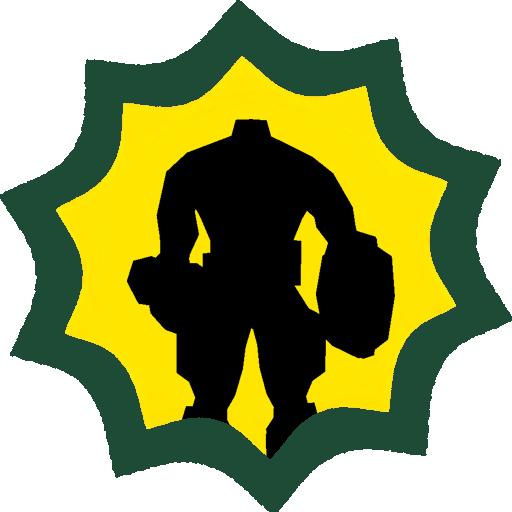
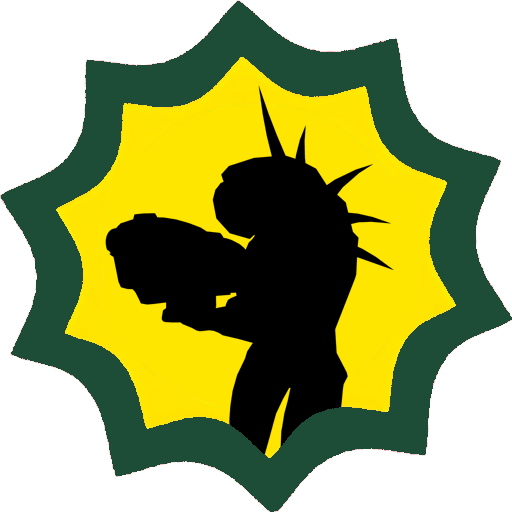
chnage les rang pour soldier et commando

diff --git a/src/services/levelUpImageService.ts b/src/services/levelUpImageService.ts
@@ -22,7 +22,7 @@ if (!fs.existsSync(ROLEUP_DIR)) {
  * Utilise les images de roleup pour tous les level ups (même logique)
  *
  * @param level - Le niveau atteint
- * @param roleName - (Optionnel) Le nom du rôle actuel (HATCHLING, JUVENILE, ADULT, COMMANDO, ELITE, ELDER)
+ * @param roleName - (Optionnel) Le nom du rôle actuel (HATCHLING, JUVENILE, ADULT, SOLDIER, ELITE, COMMANDO)
  * @returns AttachmentBuilder ou null si aucune image disponible
  */
 export function getLevelUpImage(level: number, roleName?: string): AttachmentBuilder | null {
@@ -38,7 +38,7 @@ export function getLevelUpImage(level: number, roleName?: string): AttachmentBui
 /**
  * Récupère l'image de role up pour un rôle donné
  *
- * @param roleName - Le nom du rôle (HATCHLING, JUVENILE, ADULT, COMMANDO, ELITE, ELDER)
+ * @param roleName - Le nom du rôle (HATCHLING, JUVENILE, ADULT, SOLDIER, ELITE, COMMANDO)
  * @returns AttachmentBuilder ou null si aucune image disponible
  */
 export function getRoleUpImage(roleName: string): AttachmentBuilder | null {

diff --git a/src/utils/constants.ts b/src/utils/constants.ts
@@ -17,18 +17,18 @@ export const LEVEL_ROLES = {
     HATCHLING: "1469149644293410866", // Niveau 1-9
     JUVENILE: "1469149867644293183",   // Niveau 10-19
     ADULT: "1469150100260524214",      // Niveau 20-34
-    COMMANDO: "1469150429794402344",   // Niveau 35-54
+    SOLDIER: "1469150762259976327",    // Niveau 35-54
     ELITE: "1469150566038114579",      // Niveau 55-79
-    ELDER: "1469150762259976327"       // Niveau 80+
+    COMMANDO: "1469150429794402344"    // Niveau 80+
 } as const;
 
 export const LEVEL_THRESHOLDS = [
     {level: 1, role: "HATCHLING", name: "Hatchling"},
     {level: 10, role: "JUVENILE", name: "Juvenile"},
     {level: 20, role: "ADULT", name: "Adult"},
-    {level: 35, role: "COMMANDO", name: "Commando"},
+    {level: 35, role: "SOLDIER", name: "Soldier"},
     {level: 55, role: "ELITE", name: "Elite"},
-    {level: 80, role: "ELDER", name: "Elder"}
+    {level: 80, role: "COMMANDO", name: "Commando"}
 ] as const;
 
 // Monthly Ranking Roles

diff --git a/CHANGEMENT_PROGRESSION_FEVRIER_2026.md b/CHANGEMENT_PROGRESSION_FEVRIER_2026.md
@@ -1,0 +1,116 @@
+# ✅ CHANGEMENT DE PROGRESSION DE NIVEAU - 7 février 2026
+
+## 🎯 Nouvelle Progression
+
+La hiérarchie des rôles a été modifiée comme suit :
+
+### Avant :
+
+1. 🥚 **Hatchling** (1-9)
+2. 🐣 **Juvenile** (10-19)
+3. 🦎 **Adult** (20-34)
+4. ⚔ **Commando** (35-54)
+5. 👑 **Elite** (55-79)
+6. 🔱 **Elder** (80+)
+
+### Après :
+
+1. 🥚 **Hatchling** (1-9)
+2. 🐣 **Juvenile** (10-19)
+3. 🦎 **Adult** (20-34)
+4. ⚔ **Soldier** (35-54) ← NOUVEAU
+5. 👑 **Elite** (55-79)
+6. 🔱 **Commando** (80+) ← DÉPLACÉ AU SOMMET
+
+---
+
+## ✅ Modifications Effectuées
+
+### Code
+
+- [x] `src/utils/constants.ts` - LEVEL_ROLES et LEVEL_THRESHOLDS mis à jour
+- [x] `src/services/levelUpImageService.ts` - Commentaires mis à jour
+- [x] `assets/levelup/README.md` - Guide de création d'images mis à jour
+- [x] `GUIDE_XP_DISCORD.md` - Documentation mise à jour
+
+### Configuration Discord
+
+Le bot utilise maintenant ces IDs de rôles :
+
+- **SOLDIER** : `1469150429794402344` (ancien ID de Commando)
+- **COMMANDO** : `1469150762259976327` (ancien ID de Elder)
+
+---
+
+## ⚠ ACTIONS REQUISES
+
+### 1. 📝 Renommer les Rôles Discord
+
+Sur le serveur Discord, renommez les rôles :
+
+1. Le rôle avec l'ID `1469150429794402344` :
+    - Ancien nom : "Commando"
+    - **Nouveau nom : "Soldier"**
+
+2. Le rôle avec l'ID `1469150762259976327` :
+    - Ancien nom : "Elder"
+    - **Nouveau nom : "Commando"**
+
+### 2. 🎨 Créer/Renommer les Images
+
+Dans le dossier `assets/levelup/roleup/`, vous devez avoir :
+
+**Images à renommer :**
+
+- `role_commando.png` → `role_soldier.png`
+- `role_elder.png` → `role_commando.png`
+
+**Images finales requises :**
+
+- [ ] `role_hatchling.png` - Niveaux 1-9 (gris)
+- [ ] `role_juvenile.png` - Niveaux 10-19 (cyan)
+- [ ] `role_adult.png` - Niveaux 20-34 (bleu)
+- [ ] `role_soldier.png` - Niveaux 35-54 (vert) ← À RENOMMER
+- [ ] `role_elite.png` - Niveaux 55-79 (violet)
+- [ ] `role_commando.png` - Niveaux 80+ (rouge) ← À RENOMMER
+
+### 3. 🎨 Style Recommandé
+
+**Soldier (35-54)** - Nouveau rôle
+
+- Couleurs : Vert (#48BB78)
+- Thème : Combattant, déterminé
+- Emoji : ⚔
+
+**Commando (80+)** - Maintenant au sommet
+
+- Couleurs : Rouge (#F56565)
+- Thème : Maître, légendaire
+- Emoji : 🔱
+
+---
+
+## 🔄 Après Ces Changements
+
+1. Redémarrez le bot
+2. Les utilisateurs ayant atteint ces niveaux recevront automatiquement les bons rôles
+3. Les nouvelles images s'afficheront lors des level ups
+
+---
+
+## 📊 Résumé des Changements
+
+| Niveau | Avant     | Après        | Changement       |
+|--------|-----------|--------------|------------------|
+| 1-9    | Hatchling | Hatchling    | Aucun            |
+| 10-19  | Juvenile  | Juvenile     | Aucun            |
+| 20-34  | Adult     | Adult        | Aucun            |
+| 35-54  | Commando  | **Soldier**  | Renommé          |
+| 55-79  | Elite     | Elite        | Aucun            |
+| 80+    | Elder     | **Commando** | Remplacé/Déplacé |
+
+---
+
+## ✅ Compilation
+
+Le code compile sans erreurs. Les changements sont prêts à être déployés une fois les rôles Discord renommés et les images mises à jour.

diff --git a/assets/levelup/README.md b/assets/levelup/README.md
@@ -8,9 +8,9 @@ assets/levelup/
     ├── role_hatchling.png   (niveaux 1-9)
     ├── role_juvenile.png    (niveaux 10-19)
     ├── role_adult.png       (niveaux 20-34)
-    ├── role_commando.png    (niveaux 35-54)
+    ├── role_soldier.png     (niveaux 35-54)
     ├── role_elite.png       (niveaux 55-79)
-    └── role_elder.png       (niveaux 80+)
+    └── role_commando.png    (niveaux 80+)
 ```
 
 **Total : 6 images à créer** 🎨
@@ -46,9 +46,9 @@ Les images dans `roleup/` sont utilisées pour **TOUS les level ups**, selon le 
 | **Hatchling** | 1-9     | Gris/Argent (#4A5568) | Débutant, humble        | 🥚    |
 | **Juvenile**  | 10-19   | Cyan (#38B2AC)        | Progression, croissance | 🐣    |
 | **Adult**     | 20-34   | Bleu (#4299E1)        | Mature, établi          | 🦅    |
-| **Commando**  | 35-54   | Violet (#9F7AEA)      | Guerrier, combattant    | ⚔    |
-| **Elite**     | 55-79   | Rouge (#F56565)       | Élite, puissant         | 👑    |
-| **Elder**     | 80+     | Or (#F6AD55)          | Légendaire, suprême     | 🔱    |
+| **Soldier**   | 35-54   | Vert (#48BB78)        | Combattant, déterminé   | ⚔    |
+| **Elite**     | 55-79   | Violet (#9F7AEA)      | Élite, puissant         | 👑    |
+| **Commando**  | 80+     | Rouge (#F56565)       | Maître, légendaire      | 🔱    |
 
 ## 💡 Suggestions de design
 
@@ -84,9 +84,9 @@ Le bot change juste le titre de l'embed, donc l'image peut être conçue pour fo
 - [ ] `role_hatchling.png` - Niveaux 1-9 (gris)
 - [ ] `role_juvenile.png` - Niveaux 10-19 (cyan)
 - [ ] `role_adult.png` - Niveaux 20-34 (bleu)
-- [ ] `role_commando.png` - Niveaux 35-54 (violet)
-- [ ] `role_elite.png` - Niveaux 55-79 (rouge)
-- [ ] `role_elder.png` - Niveaux 80+ (or)
+- [ ] `role_soldier.png` - Niveaux 35-54 (vert)
+- [ ] `role_elite.png` - Niveaux 55-79 (violet)
+- [ ] `role_commando.png` - Niveaux 80+ (rouge)
 
 ## ❓ FAQ
 

diff --git a/GUIDE_XP_DISCORD.md b/GUIDE_XP_DISCORD.md
@@ -189,13 +189,13 @@ Votre niveau détermine votre rôle de préfixe :
 **🦎 Adult (Niveau 20-34)**
 └─ 34,000 à 98,260 XP nécessaires
 
-**⚔ Commando (Niveau 35-54)**
+**⚔ Soldier (Niveau 35-54)**
 └─ 104,125 à 247,860 XP nécessaires
 
 **👑 Elite (Niveau 55-79)**
 └─ 257,125 à 531,685 XP nécessaires
 
-**🔱 Elder (Niveau 80+)**
+**🔱 Commando (Niveau 80+)**
 └─ 544,000+ XP nécessaires
 
 💡 **Votre rôle change automatiquement quand vous montez de niveau !**
@@ -210,9 +210,9 @@ Votre niveau détermine votre rôle de préfixe :
 
 - **Juvenile (10)** : ~55 jours (2 mois)
 - **Adult (20)** : ~7 mois
-- **Commando (35)** : ~2 ans
+- **Soldier (35)** : ~2 ans
 - **Elite (55)** : ~4.7 ans
-- **Elder (80)** : ~10 ans
+- **Commando (80)** : ~10 ans
 
 ### 🚶 Utilisateur Actif (~576 XP/jour)
 
@@ -220,9 +220,9 @@ Votre niveau détermine votre rôle de préfixe :
 
 - **Juvenile (10)** : ~15 jours
 - **Adult (20)** : ~2 mois
-- **Commando (35)** : ~6 mois ✅
+- **Soldier (35)** : ~6 mois ✅
 - **Elite (55)** : ~15 mois ✅
-- **Elder (80)** : ~2.6 ans ✅
+- **Commando (80)** : ~2.6 ans ✅
 
 ### 🏃 Utilisateur Très Actif (~1,260 XP/jour)
 
@@ -230,11 +230,11 @@ Votre niveau détermine votre rôle de préfixe :
 
 - **Juvenile (10)** : ~7 jours
 - **Adult (20)** : ~1 mois
-- **Commando (35)** : ~3 mois ✅
+- **Soldier (35)** : ~3 mois ✅
 - **Elite (55)** : ~7 mois ✅
-- **Elder (80)** : ~14 mois ✅
+- **Commando (80)** : ~14 mois ✅
 
-💡 **Elder est atteignable en ~1 an pour les très actifs !**
+💡 **Commando est atteignable en ~1 an pour les très actifs !**
 
 ---
 
